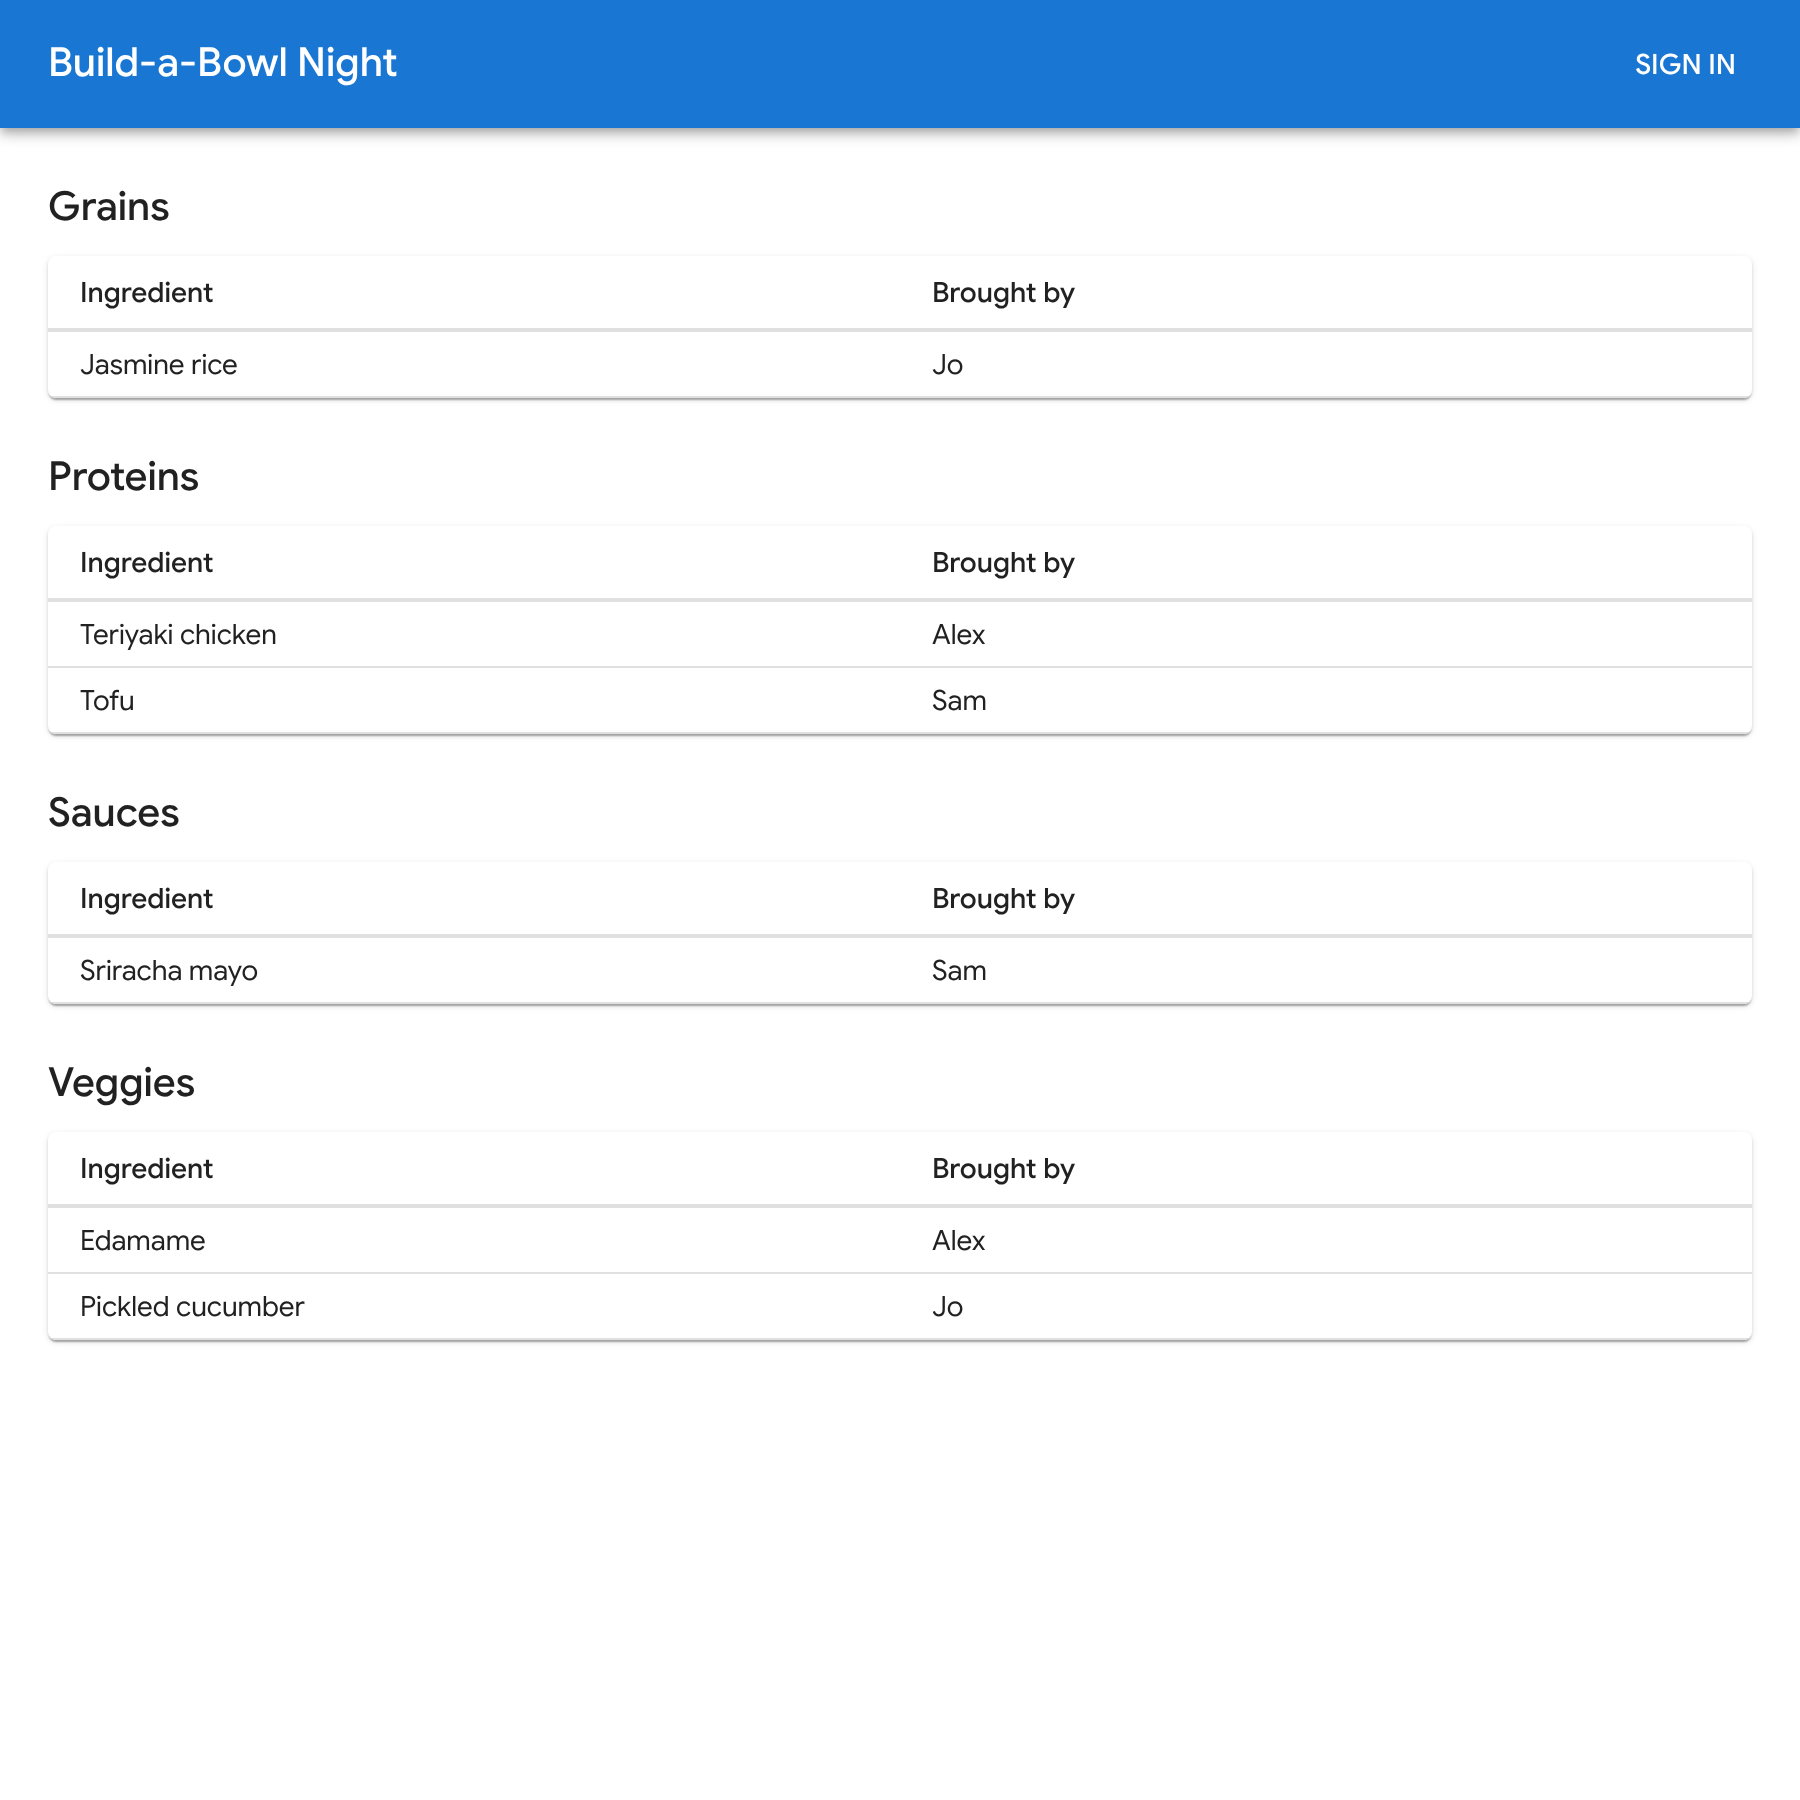
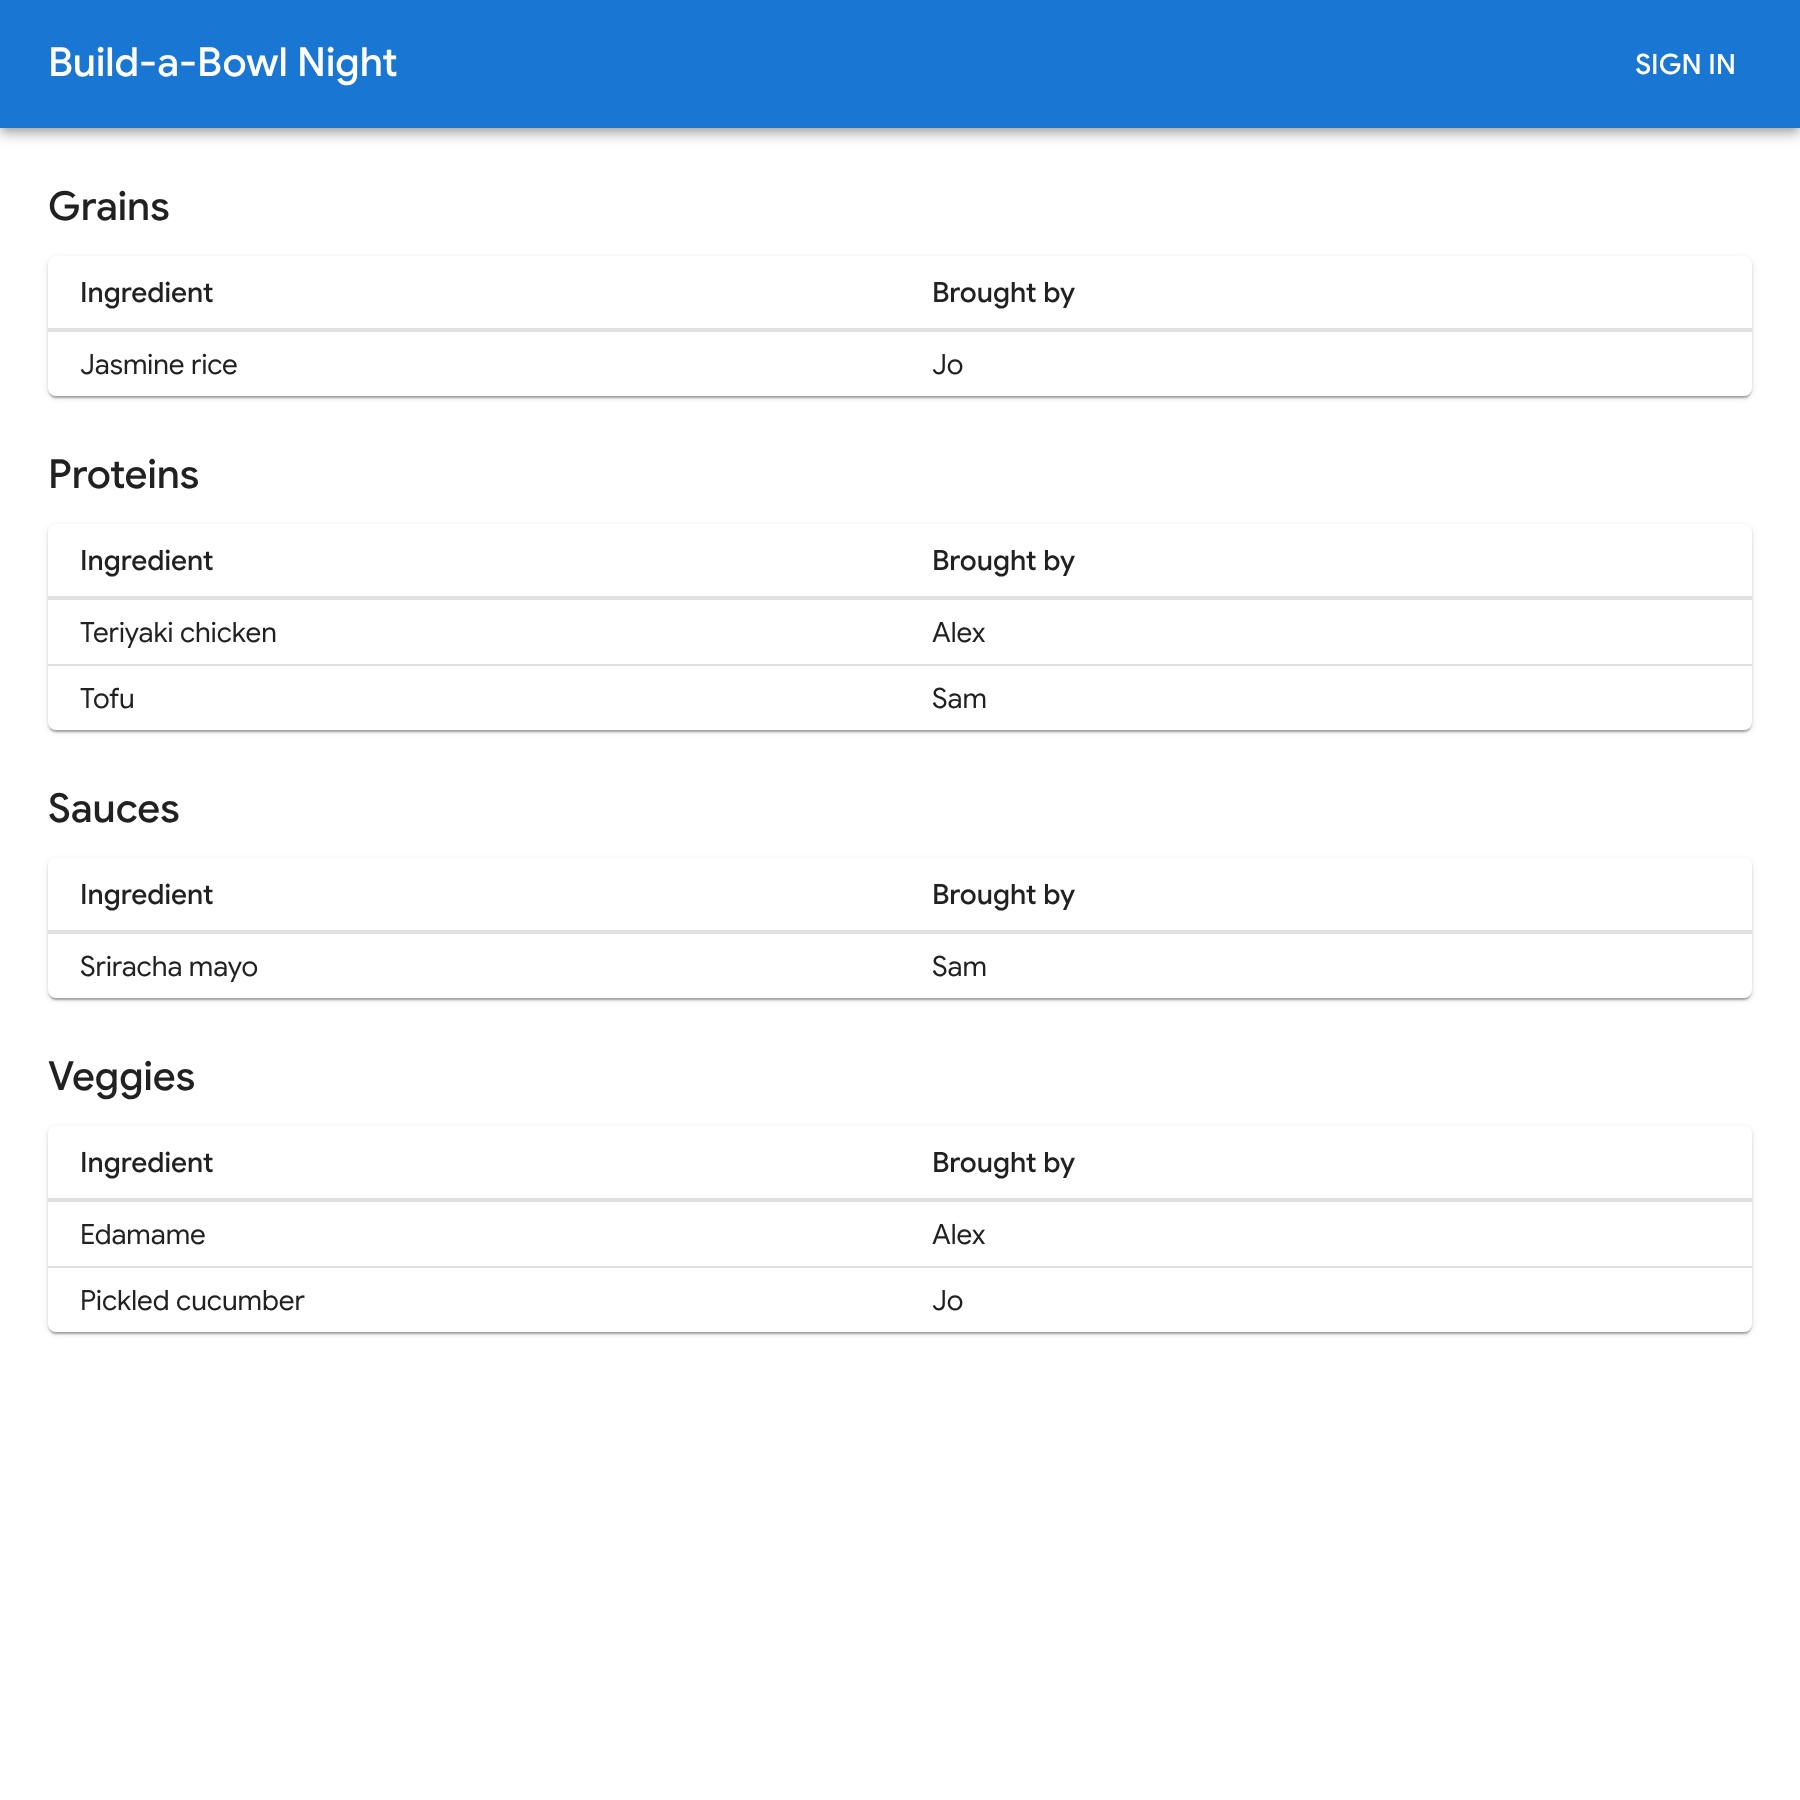
Remove border under the final row of each table
Claude-Session: https://claude.ai/code/session_01YaXshzgAPddr5nf8bECYCv

diff --git a/site/src/components/IngredientTable.tsx b/site/src/components/IngredientTable.tsx
@@ -42,7 +42,8 @@ export default function IngredientTable({ ingredients }: IngredientTableProps) {
                   <TableCell sx={headerCellSx}>Brought by</TableCell>
                 </TableRow>
               </TableHead>
-              <TableBody>
+              {/* No divider under the final row; the card edge closes the table. */}
+              <TableBody sx={{ "& tr:last-child td": { borderBottom: 0 } }}>
                 {items.map((item) => (
                   <TableRow key={item.id}>
                     <TableCell>{item.name}</TableCell>
